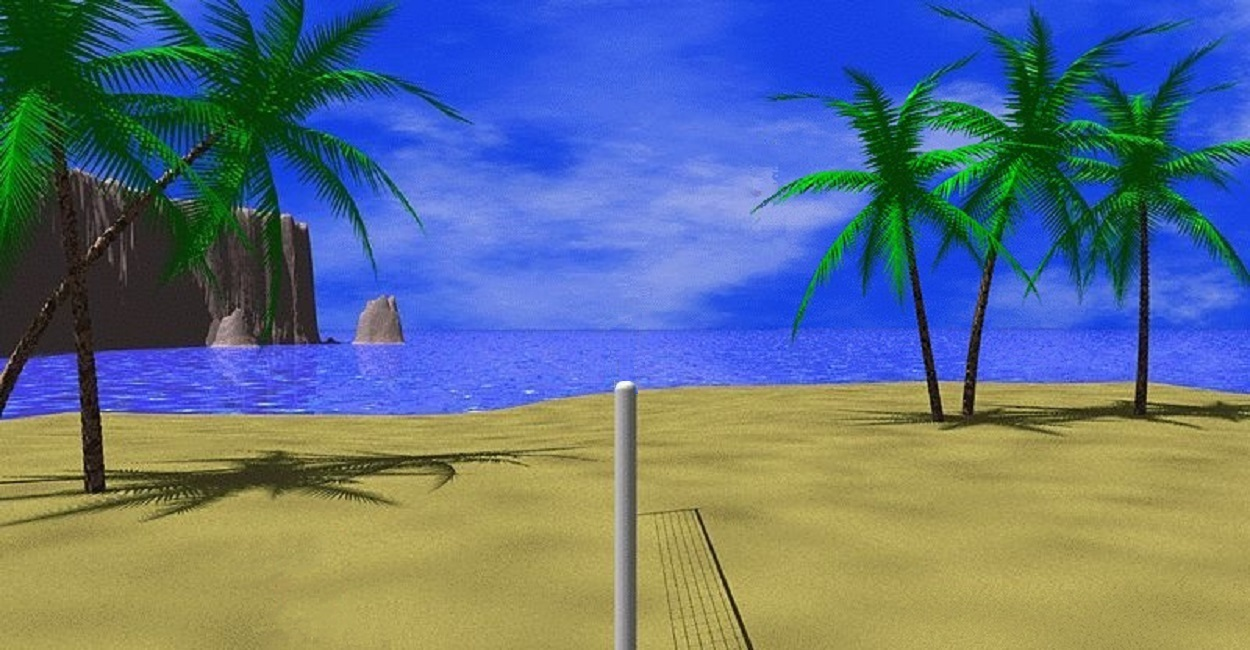
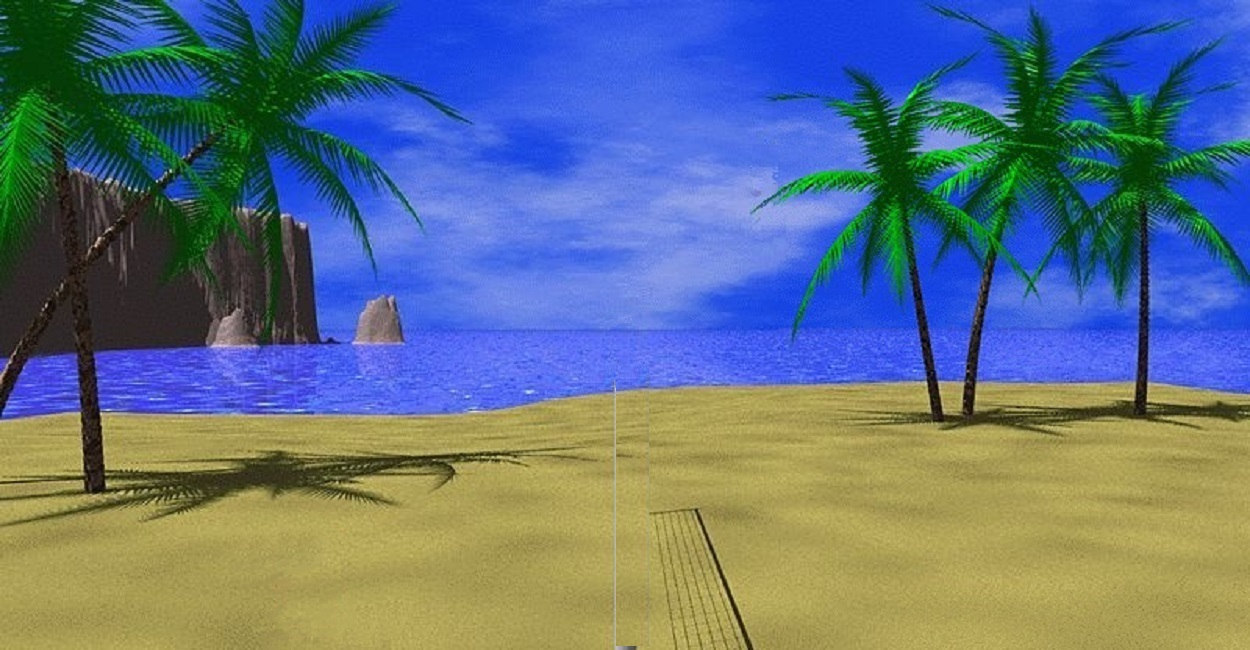
Modified the net to a brick. Created several bricks. Support collision for multiple bricks

Changed region(s): [[0.468, 0.5846, 0.5304, 1.0]]

diff --git a/ball.py b/ball.py
@@ -9,15 +9,15 @@ except ImportError as err:
 class Ball(SharedSprite):
     """A ball that will move across the screen"""
 
-    def __init__(self, players, net, pointer, boundry):
-        SharedSprite.__init__(self, 'VolleyGreenBig.png', 0.555)  # if using unusual size - use the scale to make it ok.
+    def __init__(self, players, bricks, pointer, boundry):
+        SharedSprite.__init__(self, 'VolleyGreenBig.png', 0.20)  # if using unusual size - use the scale to make it ok.
         self.hit = 0
         self.players: tuple[
             Player] = players  # type hinting is important. it helps seeing available methods in the class
         self.lastPlayer = False
         self.point_started = False
         self.point_scored = False
-        self.net: Net = net  # hinting.
+        self.bricks = bricks  # hinting.
         self.boundry: Boundry = boundry
         self.pointer: Pointer = pointer
         self.startY = 320 * basescale
@@ -73,13 +73,14 @@ class Ball(SharedSprite):
                     self.reinit()
                     return
 
-        # Net collision detection בדיקת התנגשות ברשת
-        if bestoverlap := self.bestoverlap(self.net):  # testoverlap(self.net, self):
+        # Brick collision detection בדיקת התנגשות ברשת
+        for brick in self.bricks:
+            if bestoverlap := self.bestoverlap(brick):  # testoverlap(self.net, self):
 
-            temp_dx = self.dX
-            self.process_impact(self.boundry, bestoverlap)
-            if self.dX * temp_dx < 0:  # means ball bounced back
-                self.score(Fault.Net)
+                temp_dx = self.dX
+                self.process_impact(self.boundry, bestoverlap)
+                if self.dX * temp_dx < 0:  # means ball bounced back
+                    self.score(Fault.Net)
 
         # Player Collision testing בדיקת פגיעת שחקן בכדור
         for ordinal in range(2):

diff --git a/pyGameBreakOut.py b/pyGameBreakOut.py
@@ -17,23 +17,28 @@ def main():
 
     pygame.display.set_caption('Blobby')
 
-    background = pygame.image.load('data\\beachback.jpg')
+    background = pygame.image.load('data\\BlobbyBack.jpg')
     background = pygame.transform.scale(background, (screenx, screeny))
     background = background.convert()
 
     # Initialise players, net, and ball
     players = (Player("left"), Player("right"))
-    net = Net()
+    net = Brick(-350, 200)
+    net1 = Brick(-200, 200)
+    net2 = Brick(-50, 200)
+    net3 = Brick(100, 200)
+    net4 = Brick(250, 200)
+    net5 = Brick(400, 200)
     boundry = Boundry()
     pointer = Pointer()
-    ball = Ball(players, net, pointer, boundry)
+    ball = Ball(players, [net,net1,net2,net3,net4,net5], pointer, boundry)
     Player.ball = ball  # give player a static reference to ball.
 
     # Initialise sprites' groups
     playersprites = pygame.sprite.RenderPlain(players)
     ballsprites = pygame.sprite.RenderPlain(ball, pointer)
 
-    othersprites = pygame.sprite.RenderPlain(boundry, net)
+    othersprites = pygame.sprite.RenderPlain(boundry, net,net1,net2,net3,net4,net5)
 
     # Display some text
     font = pygame.font.Font(None, 36)
@@ -77,7 +82,7 @@ def main():
         playersprites.update()  # it matters if you update the player before or after the ball.
         ballsprites.update()  # calls the update method on sprite
 
-        # othersprites.draw(screen)
+        othersprites.draw(screen)
         playersprites.draw(screen)
         ballsprites.draw(screen)  # blits every sprite to the screen.
 

diff --git a/Shared.py b/Shared.py
@@ -145,10 +145,10 @@ class SharedSprite(pygame.sprite.Sprite):
         return angle_ofdxdy((self.dX, self.dY))
 
 
-class Net(SharedSprite):
-    def __init__(self):
-        SharedSprite.__init__(self, 'Net1.png')
-        self.rect.midbottom = (self.area.midbottom[0], self.area.midbottom[1] + 0)
+class Brick(SharedSprite):
+    def __init__(self,x,y):
+        SharedSprite.__init__(self, 'Net1.png',3)
+        self.rect.midtop = (self.area.midtop[0] + x*basescale, self.area.midtop[1] + y*basescale)
 
     @property
     def weight(self):
